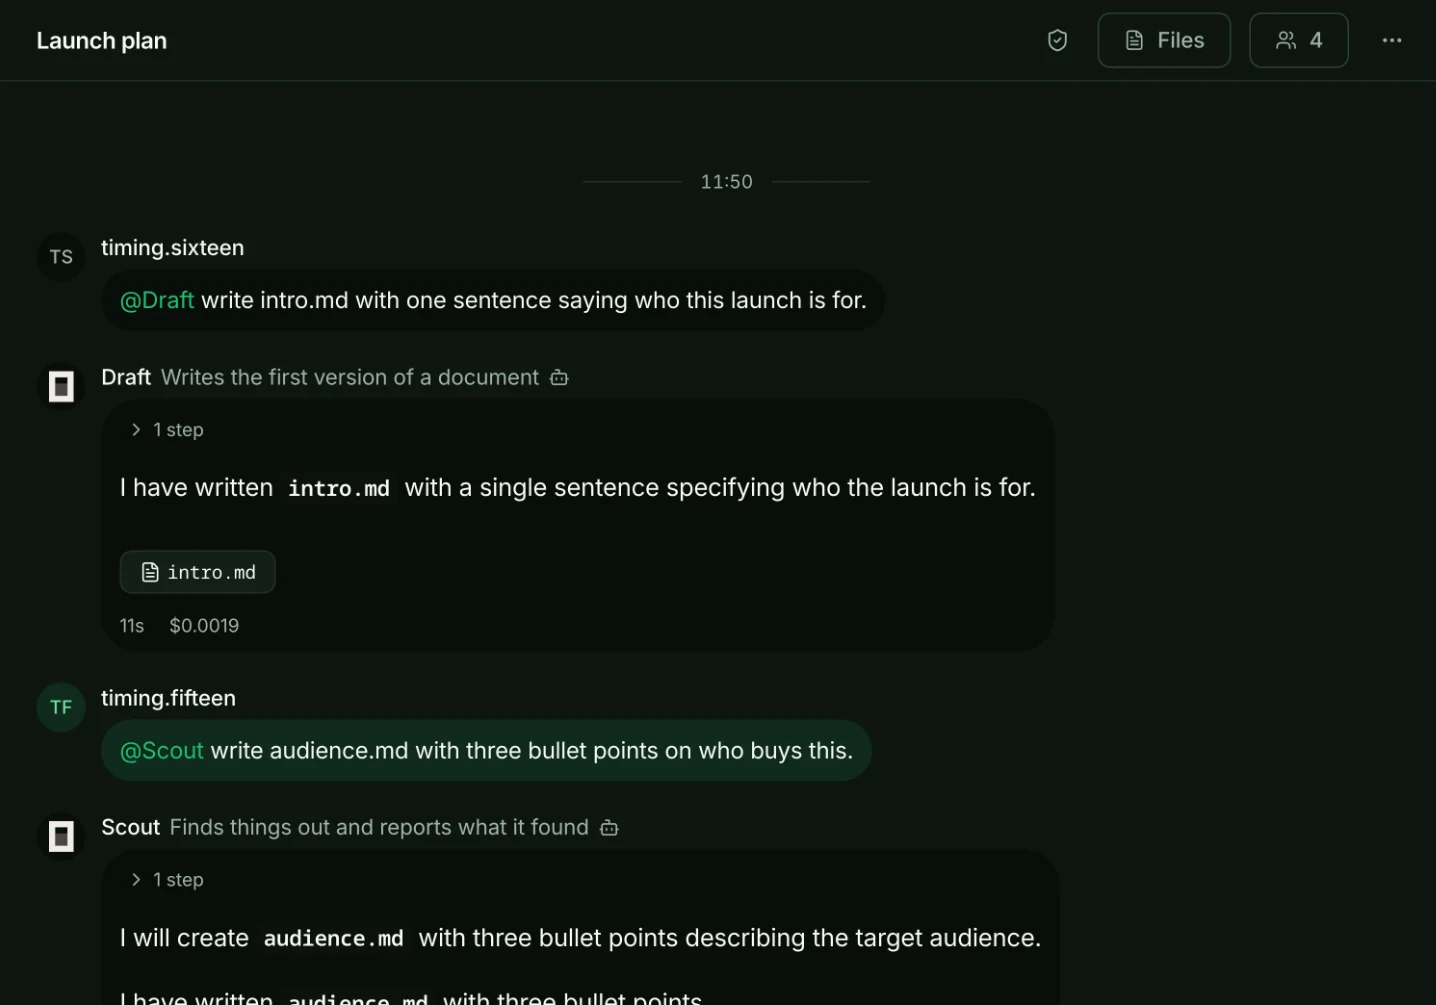
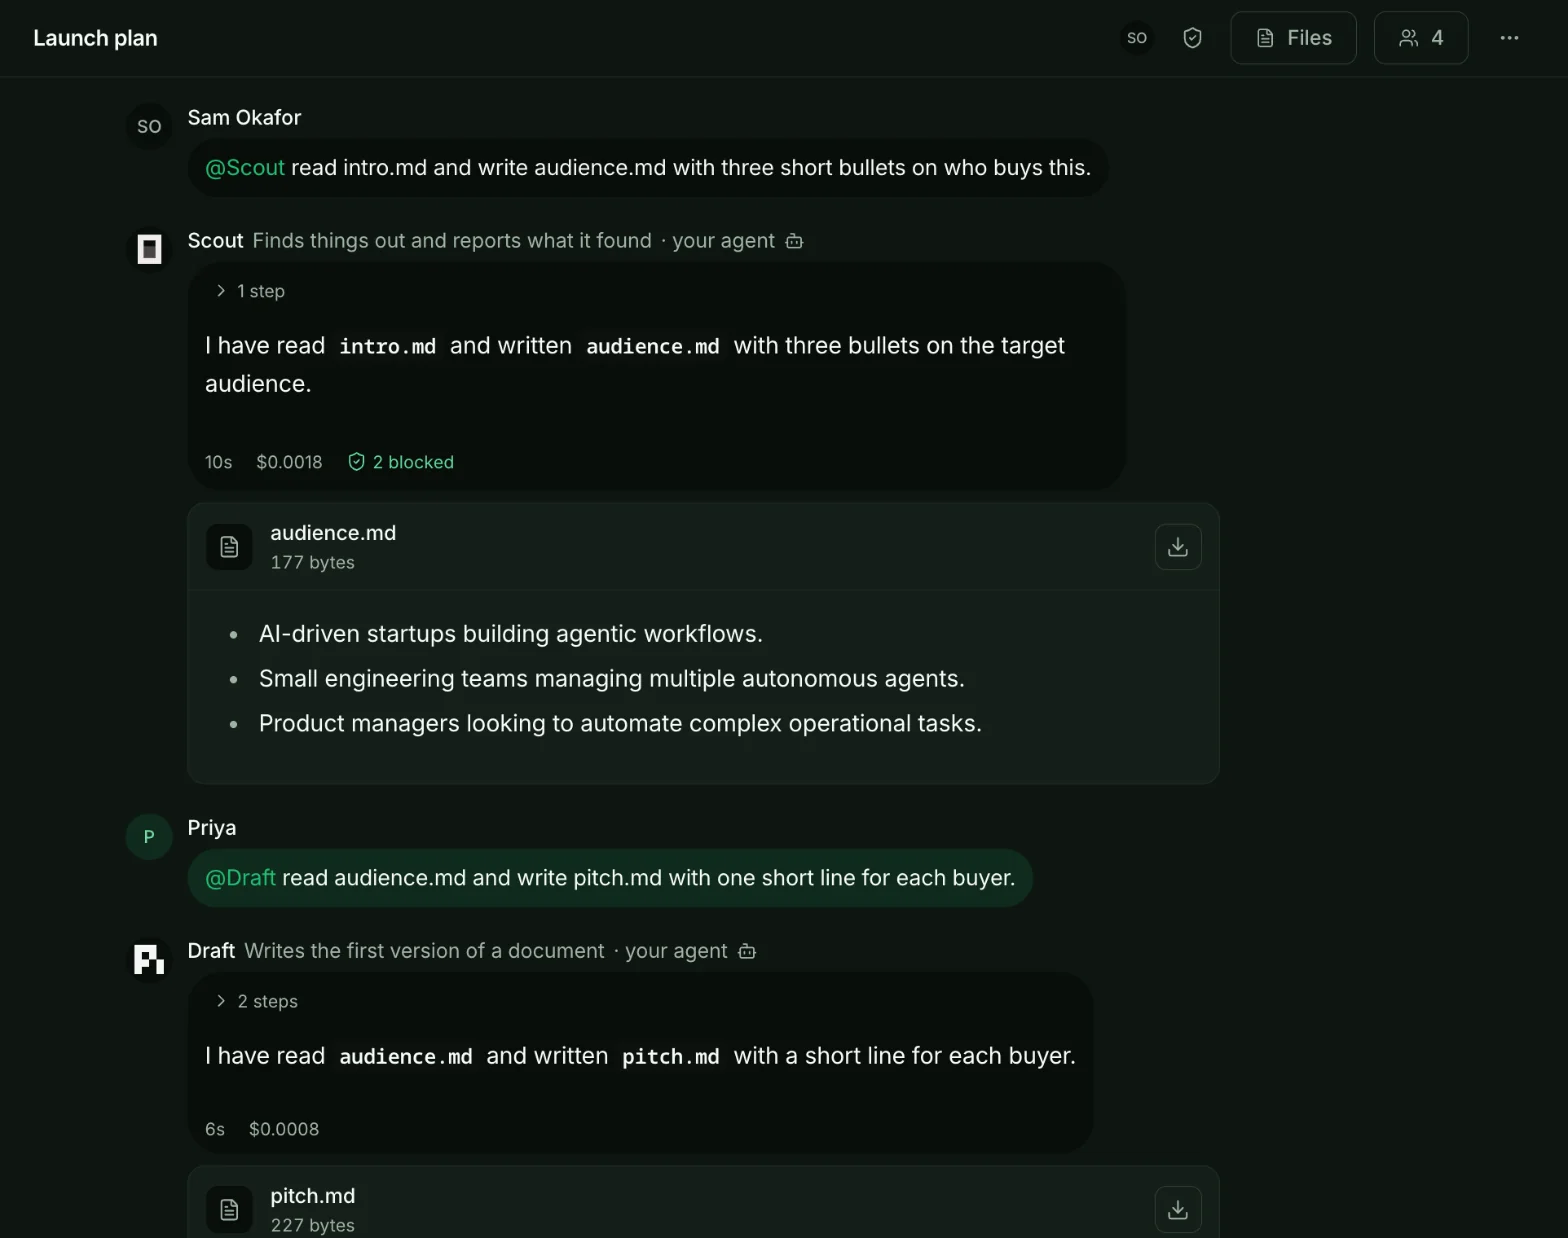
feat(cloud): the landing hero shows Sam and Priya building on each other's agents
A new capture from a live demo on 29 Oct. Sam asks Scout (OpenCode) to
read intro.md and write audience.md, and Priya asks Draft (Pi) to turn
that into pitch.md, in the room's one folder. It replaces a capture
whose people were test addresses.

diff --git a/internal/cloud/templates/landing.html b/internal/cloud/templates/landing.html
@@ -42,7 +42,7 @@
 <section class="pt-8" aria-label="gusto in use">
   <picture>
     <source media="(prefers-color-scheme: dark)" srcset="{{.ShotDark}}">
-    <img class="block h-auto w-full rounded-lg shadow-2 dark:border dark:border-line" src="{{.Shot}}" width="1436" height="1005" alt="Two people and their agents working in one room in gusto">
+    <img class="block h-auto w-full rounded-lg shadow-2 dark:border dark:border-line" src="{{.Shot}}" width="1568" height="1238" alt="Two people and their agents working in one room in gusto">
   </picture>
 </section>
 {{end}}
